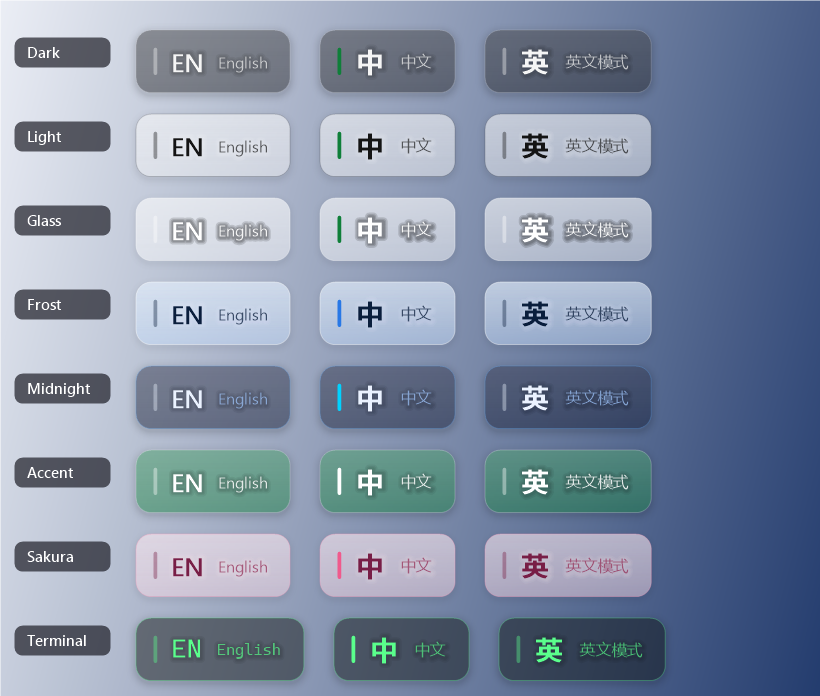
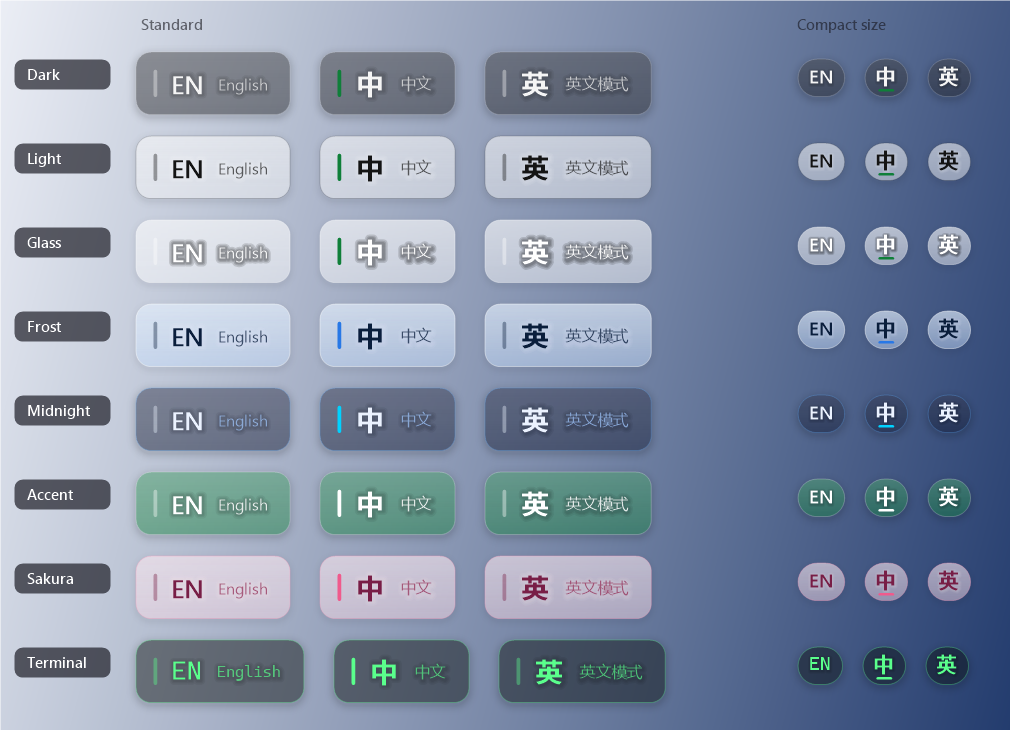
Add compact size option
A "Compact size" toggle in the Theme menu replaces the full popup with a
small glyph-only badge (EN / 中 / 英) that works with every color theme.
Native input mode is marked with an accent underline and Caps Lock with
a small ⇪. Setting persists as HKCU\Software\LanguageIndicator\Compact.

The theme gallery now shows the compact badge next to each theme.

diff --git a/src/OsdWindow.cs b/src/OsdWindow.cs
@@ -47,7 +47,7 @@ namespace LanguageIndicator
             var anchorPt = new Native.POINT(anchor.X, anchor.Y);
             _scale = DpiScaleAt(anchorPt);
 
-            using (Bitmap bmp = Render(state, _scale, Theme.Get(Settings.ThemeName), Settings.Opacity))
+            using (Bitmap bmp = Render(state, _scale, Theme.Get(Settings.ThemeName), Settings.Opacity, Settings.Compact))
             {
                 SetBitmap(bmp);
             }
@@ -165,94 +165,144 @@ namespace LanguageIndicator
 
         private static int ShadowMargin(float scale) { return (int)Math.Ceiling(14 * scale); }
 
-        private static Bitmap Render(InputState state, float s, Theme th, int opacity)
+        private static Bitmap Render(InputState state, float s, Theme th, int opacity, bool compact)
         {
             float op = opacity / 100f;
             Color fill = Color.FromArgb((int)Math.Round(255 * op), th.Fill);
-            Color bar = state.IsAccent ? (th.Bar.IsEmpty ? Theme.SystemAccent() : th.Bar) : Color.FromArgb(100, th.Text);
+            Color accent = th.Bar.IsEmpty ? Theme.SystemAccent() : th.Bar;
             // The more see-through the background, the stronger the halo that keeps text readable.
             int halo = Math.Max(th.MinHalo, (int)Math.Round(90 * (1 - op)));
 
-            string glyph = state.Glyph, caption = state.Caption;
+            string glyph = state.Glyph;
             bool cjkGlyph = glyph.Length > 0 && glyph[0] > 0x2E80;
+            float glyphPx = compact ? (cjkGlyph ? 16f : 15f) : (cjkGlyph ? 22f : 21f);
 
             using (var glyphFont = MakeFont(cjkGlyph ? "Microsoft YaHei UI" : (th.LatinFont ?? "Segoe UI Semibold"),
-                                            (cjkGlyph ? 22f : 21f) * s, cjkGlyph ? FontStyle.Bold : FontStyle.Regular))
-            using (var capFont = MakeFont(IsAscii(caption) ? (th.LatinFont ?? "Segoe UI") : "Microsoft YaHei UI",
-                                          12.5f * s, FontStyle.Regular))
+                                            glyphPx * s, cjkGlyph ? FontStyle.Bold : FontStyle.Regular))
             using (var measureBmp = new Bitmap(1, 1))
             using (var mg = Graphics.FromImage(measureBmp))
             {
                 var fmt = StringFormat.GenericTypographic;
                 float glyphW = mg.MeasureString(glyph, glyphFont, 1000, fmt).Width;
-                float capW = mg.MeasureString(caption, capFont, 1000, fmt).Width;
-
-                float padL = 14 * s, barW = 3 * s, gap = 11 * s, padR = 18 * s, h = 50 * s;
-                float glyphBox = Math.Max(glyphW, 26 * s);
-                float w = padL + barW + gap + glyphBox + gap + capW + padR;
-
                 int m = ShadowMargin(s);
-                var bmp = new Bitmap((int)Math.Ceiling(w) + 2 * m, (int)Math.Ceiling(h) + 2 * m, PixelFormat.Format32bppArgb);
-                using (var g = Graphics.FromImage(bmp))
+                var layout = new StringFormat(StringFormat.GenericTypographic)
                 {
-                    g.SmoothingMode = SmoothingMode.AntiAlias;
-                    g.PixelOffsetMode = PixelOffsetMode.HighQuality;
-                    g.TextRenderingHint = TextRenderingHint.AntiAliasGridFit;
-                    g.Clear(Color.Transparent);
+                    Alignment = StringAlignment.Center,
+                    LineAlignment = StringAlignment.Center,
+                };
 
-                    var pill = new RectangleF(m, m, w, h);
-                    float radius = 12 * s;
-                    using (var pillPath = RoundRect(pill, radius))
+                if (compact)
+                {
+                    // Glyph-only badge; a circle for single CJK characters, a short pill otherwise.
+                    const string capsMark = "⇪";
+                    using (var capsFont = MakeFont("Segoe UI Symbol", 15f * s, FontStyle.Regular))
                     {
-                        // Soft shadow outside the pill only (so the glass stays clean), fainter when transparent.
-                        using (var excl = new Region(pillPath))
+                        float capsW = state.Caps ? mg.MeasureString(capsMark, capsFont, 1000, fmt).Width + 3 * s : 0;
+                        float h = 30 * s;
+                        float w = Math.Max(h, glyphW + capsW + 18 * s);
+                        Bitmap bmp;
+                        using (var g = BeginCanvas(w, h, m, out bmp))
                         {
-                            g.SetClip(excl, CombineMode.Exclude);
-                            float strength = th.Shadow * (0.35f + 0.65f * op);
-                            for (int i = m; i >= 1; i--)
+                            var pill = new RectangleF(m, m, w, h);
+                            DrawPill(g, pill, h / 2, th, fill, op, m, s);
+
+                            float gx = m + (w - glyphW - capsW) / 2;
+                            DrawText(g, glyph, glyphFont, th.Text, th.Halo, halo,
+                                     new RectangleF(gx, m - 1 * s, glyphW, h), layout, s * 0.6f);
+                            if (state.Caps)
+                                DrawText(g, capsMark, capsFont, th.Text, th.Halo, halo,
+                                         new RectangleF(gx + glyphW + 3 * s, m - 1 * s, capsW, h), layout, s * 0.5f);
+
+                            if (state.IsAccent)
                             {
-                                float t = 1f - (float)i / (m + 1);
-                                int a = (int)(strength * t * t);
-                                if (a < 1) continue;
-                                var r = pill;
-                                r.Inflate(i * 0.9f, i * 0.9f);
-                                r.Offset(0, 2 * s);
-                                using (var p = RoundRect(r, radius + i * 0.9f))
-                                using (var b = new SolidBrush(Color.FromArgb(a, 0, 0, 0)))
+                                float lw = Math.Min(14 * s, glyphW * 0.8f);
+                                var line = new RectangleF(gx + (glyphW - lw) / 2, m + h - 6 * s, lw, 2 * s);
+                                using (var p = RoundRect(line, 1 * s))
+                                using (var b = new SolidBrush(accent))
                                     g.FillPath(b, p);
                             }
-                            g.ResetClip();
                         }
-
-                        using (var b = new SolidBrush(fill)) g.FillPath(b, pillPath);
-                        if (th.Highlight > 0)
-                            using (var hl = new LinearGradientBrush(pill, Color.FromArgb(th.Highlight, 255, 255, 255),
-                                       Color.FromArgb(0, 255, 255, 255), LinearGradientMode.Vertical))
-                                g.FillPath(hl, pillPath);
-                        using (var pen = new Pen(th.Border, Math.Max(1f, s))) g.DrawPath(pen, pillPath);
+                        layout.Dispose();
+                        return bmp;
                     }
-
-                    // Accent bar
-                    float barH = 22 * s;
-                    var barRect = new RectangleF(m + padL, m + (h - barH) / 2, barW, barH);
-                    using (var p = RoundRect(barRect, barW / 2))
-                    using (var b = new SolidBrush(bar))
-                        g.FillPath(b, p);
-
-                    var layout = new StringFormat(StringFormat.GenericTypographic)
-                    {
-                        Alignment = StringAlignment.Center,
-                        LineAlignment = StringAlignment.Center,
-                    };
-                    float gx = m + padL + barW + gap;
-                    DrawText(g, glyph, glyphFont, th.Text, th.Halo, halo, new RectangleF(gx, m, glyphBox, h), layout, s);
-
-                    layout.Alignment = StringAlignment.Near;
-                    float cx = gx + glyphBox + gap;
-                    DrawText(g, caption, capFont, th.Sub, th.Halo, halo, new RectangleF(cx, m + 1 * s, capW + 4 * s, h), layout, s);
-                    layout.Dispose();
                 }
-                return bmp;
+
+                string caption = state.Caption;
+                using (var capFont = MakeFont(IsAscii(caption) ? (th.LatinFont ?? "Segoe UI") : "Microsoft YaHei UI",
+                                              12.5f * s, FontStyle.Regular))
+                {
+                    float capW = mg.MeasureString(caption, capFont, 1000, fmt).Width;
+                    float padL = 14 * s, barW = 3 * s, gap = 11 * s, padR = 18 * s, h = 50 * s;
+                    float glyphBox = Math.Max(glyphW, 26 * s);
+                    float w = padL + barW + gap + glyphBox + gap + capW + padR;
+
+                    Bitmap bmp;
+                    using (var g = BeginCanvas(w, h, m, out bmp))
+                    {
+                        DrawPill(g, new RectangleF(m, m, w, h), 12 * s, th, fill, op, m, s);
+
+                        // Accent bar
+                        float barH = 22 * s;
+                        var barRect = new RectangleF(m + padL, m + (h - barH) / 2, barW, barH);
+                        using (var p = RoundRect(barRect, barW / 2))
+                        using (var b = new SolidBrush(state.IsAccent ? accent : Color.FromArgb(100, th.Text)))
+                            g.FillPath(b, p);
+
+                        float gx = m + padL + barW + gap;
+                        DrawText(g, glyph, glyphFont, th.Text, th.Halo, halo, new RectangleF(gx, m, glyphBox, h), layout, s);
+
+                        layout.Alignment = StringAlignment.Near;
+                        float cx = gx + glyphBox + gap;
+                        DrawText(g, caption, capFont, th.Sub, th.Halo, halo, new RectangleF(cx, m + 1 * s, capW + 4 * s, h), layout, s);
+                    }
+                    layout.Dispose();
+                    return bmp;
+                }
+            }
+        }
+
+        private static Graphics BeginCanvas(float w, float h, int m, out Bitmap bmp)
+        {
+            bmp = new Bitmap((int)Math.Ceiling(w) + 2 * m, (int)Math.Ceiling(h) + 2 * m, PixelFormat.Format32bppArgb);
+            var g = Graphics.FromImage(bmp);
+            g.SmoothingMode = SmoothingMode.AntiAlias;
+            g.PixelOffsetMode = PixelOffsetMode.HighQuality;
+            g.TextRenderingHint = TextRenderingHint.AntiAliasGridFit;
+            g.Clear(Color.Transparent);
+            return g;
+        }
+
+        /// <summary>Background: soft shadow, translucent fill, glassy highlight and hairline border.</summary>
+        private static void DrawPill(Graphics g, RectangleF pill, float radius, Theme th, Color fill, float op, int m, float s)
+        {
+            using (var pillPath = RoundRect(pill, radius))
+            {
+                // Shadow outside the pill only (so the glass stays clean), fainter when transparent.
+                using (var excl = new Region(pillPath))
+                {
+                    g.SetClip(excl, CombineMode.Exclude);
+                    float strength = th.Shadow * (0.35f + 0.65f * op);
+                    for (int i = m; i >= 1; i--)
+                    {
+                        float t = 1f - (float)i / (m + 1);
+                        int a = (int)(strength * t * t);
+                        if (a < 1) continue;
+                        var r = pill;
+                        r.Inflate(i * 0.9f, i * 0.9f);
+                        r.Offset(0, 2 * s);
+                        using (var p = RoundRect(r, radius + i * 0.9f))
+                        using (var b = new SolidBrush(Color.FromArgb(a, 0, 0, 0)))
+                            g.FillPath(b, p);
+                    }
+                    g.ResetClip();
+                }
+
+                using (var b = new SolidBrush(fill)) g.FillPath(b, pillPath);
+                if (th.Highlight > 0)
+                    using (var hl = new LinearGradientBrush(pill, Color.FromArgb(th.Highlight, 255, 255, 255),
+                               Color.FromArgb(0, 255, 255, 255), LinearGradientMode.Vertical))
+                        g.FillPath(hl, pillPath);
+                using (var pen = new Pen(th.Border, Math.Max(1f, s))) g.DrawPath(pen, pillPath);
             }
         }
 

diff --git a/src/Program.cs b/src/Program.cs
@@ -1,4 +1,5 @@
 using System;
+using System.Collections.Generic;
 using System.Drawing;
 using System.Drawing.Text;
 using System.Threading;
@@ -69,6 +70,7 @@ namespace LanguageIndicator
         {
             var root = new ToolStripMenuItem("Theme");
             string current = Settings.ThemeName;
+            var themeItems = new List<ToolStripMenuItem>();
             foreach (string name in Theme.Names)
             {
                 string n = name;
@@ -77,11 +79,23 @@ namespace LanguageIndicator
                 item.Click += delegate
                 {
                     Settings.ThemeName = n;
-                    foreach (ToolStripMenuItem i in root.DropDownItems) i.Checked = i == item;
+                    foreach (ToolStripMenuItem i in themeItems) i.Checked = i == item;
                     ShowCurrent();
                 };
+                themeItems.Add(item);
                 root.DropDownItems.Add(item);
             }
+
+            root.DropDownItems.Add(new ToolStripSeparator());
+            var compact = new ToolStripMenuItem("Compact size");
+            compact.Checked = Settings.Compact;
+            compact.Click += delegate
+            {
+                Settings.Compact = !Settings.Compact;
+                compact.Checked = Settings.Compact;
+                ShowCurrent();
+            };
+            root.DropDownItems.Add(compact);
             return root;
         }
 

diff --git a/src/Theme.cs b/src/Theme.cs
@@ -119,6 +119,13 @@ namespace LanguageIndicator
             set { Write("Opacity", value.ToString()); }
         }
 
+        /// <summary>Glyph-only badge instead of the full popup with caption.</summary>
+        public static bool Compact
+        {
+            get { return Read("Compact", "0") == "1"; }
+            set { Write("Compact", value ? "1" : "0"); }
+        }
+
         private static string Read(string name, string fallback)
         {
             try

diff --git a/README.md b/README.md
@@ -26,12 +26,14 @@ This produces `bin\LanguageIndicator.exe`.
 - Run `bin\LanguageIndicator.exe`. Only one copy runs at a time.
 - Tray icon: left-click shows the current state. The right-click menu has:
   - **Theme**: Auto (follows Windows light/dark), Dark, Light, Glass, Frost, Midnight, Accent (your Windows accent color), Sakura, Terminal.
+    - **Compact size** (at the bottom of the Theme menu) shrinks the popup to a small glyph-only badge in any theme.
+      An underline marks native input mode (e.g. 中), and ⇪ appears when Caps Lock is on.
   - **Background opacity**: 15% / 30% / 45% (default) / 60% / 80%. Lower is more see-through. Text gets a soft halo so it stays readable.
   - **Start with Windows**, **Exit**.
 - Picking a theme or opacity previews it right away. Settings are saved in `HKCU\Software\LanguageIndicator`.
 
 ### Themes
-All themes shown at the default 45% background opacity:
+All themes at the default 45% background opacity, in standard and compact size:
 
 ![Theme gallery](docs/themes.png)
 
